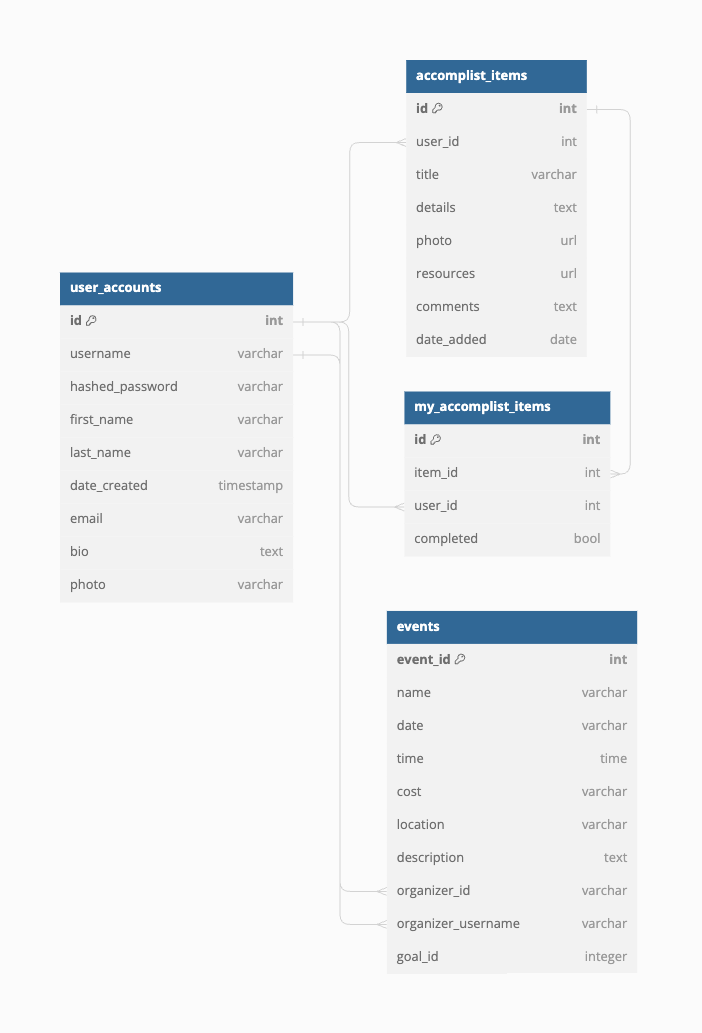
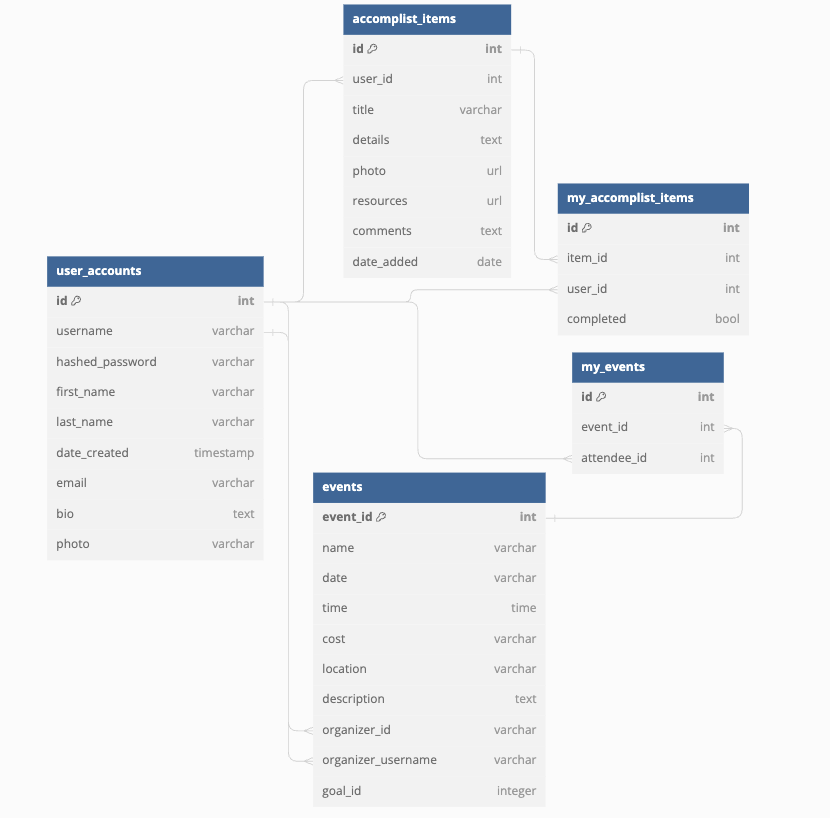
readme my events

diff --git a/ghi/src/Pages/MyEventCreate 2.js b/ghi/src/Pages/MyEventCreate 2.js
@@ -1,0 +1,191 @@
+import React, { useState, useEffect } from "react";
+import useToken from "@galvanize-inc/jwtdown-for-react";
+import { Container, Row, Form, Button, Table } from 'react-bootstrap';
+import { Typeahead } from 'react-bootstrap-typeahead';
+
+export default function MyEventCreate({ user }) {
+
+  const { token, fetchWithToken } = useToken();
+  const [eventObject, setEvent] = useState('');
+  const [events, setEvents] = useState([]);
+  const [my_events, setMyEvents] = useState([]);
+
+  // Call Events Function Upon Token
+  useEffect(() => {
+    if (token && user.id) {
+      async function fetchData() {
+        if (token) {
+          try {
+            const eventUrl = `${process.env.REACT_APP_API_HOST}/events`;
+            const eventData = await fetchWithToken(eventUrl);
+            setEvents(eventData);
+          } catch (error) {
+            console.error("Error fetching data:", error);
+          }
+        } else {
+          console.log("fetch events failed");
+        }
+      }
+
+      fetchData();
+      getMyEvents();
+    } // eslint-disable-next-line
+  }, [token, user.id]);
+
+  // Set My Events
+  const getMyEvents= async () => {
+    if (token) {
+      const myEventUrl = `${process.env.REACT_APP_API_HOST}/api/my_events/account/${user.id}`;
+      const response = await fetchWithToken(myEventUrl);
+      setMyEvents(response);
+    } else {
+      console.log("fetch my events failed");
+    }
+  };
+
+
+
+  const customBackgroundStyle = {
+  backgroundImage: 'url("https://i.imgur.com/afK9tLx.jpg")',
+  backgroundRepeat: 'no-repeat',
+  backgroundSize: 'cover',
+  minHeight: '100vh',
+};
+
+  async function handleSubmit(event) {
+    event.preventDefault();
+    const data = {
+      event_id: eventObject,
+      attendee_id: user.id,
+    };
+    const myEventUrl = `${process.env.REACT_APP_API_HOST}/api/my_events`;
+    const fetchConfig = {
+      method: "post",
+      body: JSON.stringify(data),
+      headers: {
+        'Content-Type': 'application/json',
+      },
+    };
+    const response = await fetch(myEventUrl, fetchConfig);
+    if (response.ok) {
+      setEvent('');
+      getMyEvents();
+      window.location.href = `${process.env.PUBLIC_URL}/my_events/new`;
+    }
+  }
+
+   async function handleDelete(event) {
+    event.preventDefault();
+    const myEvent = my_events.find(my_event => my_event.event_id === parseInt(event.target.value))
+    const myEventId = myEvent.id
+    const myEventUrl = `${process.env.REACT_APP_API_HOST}/api/my_events/${myEventId}`;
+    const fetchConfig = {
+      method: "delete",
+      headers: {
+        'Content-Type': 'application/json',
+      },
+    };
+    const response = await fetch(myEventUrl, fetchConfig);
+    if (response.ok) {
+      getMyEvents();
+      window.location.href = `${process.env.PUBLIC_URL}/my_events/new`;
+    }
+  }
+
+  function handleChangeEvent(eventthing) {
+    setEvent(eventthing[0].event_id)
+  }
+
+
+  if (token && my_events) {
+  const today = new Date();
+  const myEventIds = my_events.map(event => event.event_id);
+  const upcomingEvents = events.filter(event => myEventIds.includes(event.event_id) && new Date(event.date) > today )
+  const pastEvents = events.filter(event => myEventIds.includes(event.event_id) && new Date(event.date) < today )
+  ;
+
+    // Filter the events array to include only events not in my_events
+    const filteredEvents = events.filter(event => !myEventIds.includes(event.event_id));
+
+
+    return (
+    <div style={customBackgroundStyle}>
+        <div style={{ paddingTop: '200px' }}>
+            <Container>
+                <h1 className="whitey-shadow">Save an Event!</h1>
+        <Form onSubmit={handleSubmit}>
+          <Form.Group >
+            <h5 className="whitey-shadow" htmlFor="events">Choose Event</h5>
+            <Typeahead
+              id="events"
+              labelKey="name"
+              options={filteredEvents}
+              onChange={handleChangeEvent}
+              placeholder="Choose Event From Dropdown Below!"
+            />
+          </Form.Group>
+
+          <Button
+            disabled={events.length === 0}
+            type="submit"
+            variant="primary"
+          >
+            Submit
+          </Button>
+        </Form>
+
+        <Container className="mt-5">
+          <h1 className="whitey-shadow">{user.username}'s events!</h1>
+           <h2 className="whitey-shadow">upcoming events!</h2>
+          <Row>
+               <Table striped bordered hover>
+              <thead>
+                <tr>
+                  <th style={{ width: '75%' }}>Event</th>
+                  <th style={{ width: '15%' }}>Date</th>
+                  <th style={{ width: '5%' }}>Actions</th>
+                </tr>
+              </thead>
+              <tbody>{upcomingEvents.map(my_event => (
+                  <tr key={my_event.event_id}>
+                    <td>{my_event.name}</td>
+                    <td>{my_event.date}</td>
+                    <td><Button className="btn btn-sm custom-button" onClick={handleDelete} value={my_event.event_id}>Delete</Button></td>
+                  </tr>
+                     ))}
+                  </tbody>
+            </Table>
+          </Row>
+          <h2 className="whitey-shadow">past events!</h2>
+          <Row>
+            <Table striped bordered hover>
+              <thead>
+                <tr>
+                  <th style={{ width: '75%' }}>Event</th>
+                  <th style={{ width: '15%' }}>Date</th>
+                  <th style={{ width: '5%' }}>Actions</th>
+                </tr>
+              </thead>
+              <tbody>{pastEvents.map(my_event => (
+                  <tr key={my_event.event_id}>
+                    <td>{my_event.name}</td>
+                    <td>{my_event.date}</td>
+                    <td><Button className="btn btn-sm custom-button" onClick={handleDelete} value={my_event.event_id}>Delete</Button></td>
+                  </tr>
+                ))}
+              </tbody>
+            </Table>
+          </Row>
+        </Container>
+
+      </Container>
+      </div>
+      </div>
+
+    );
+  } else {
+    return (
+      <div className="mt-5">You must be logged in to add to your Events</div>
+    );
+  }
+}

diff --git a/api/queries/my_events 2.py b/api/queries/my_events 2.py
@@ -1,0 +1,128 @@
+from pydantic import BaseModel
+from typing import Optional, Union, List
+from queries.pool import pool
+
+
+class Error(BaseModel):
+    message: str
+
+
+class MyEventIn(BaseModel):
+    event_id: int
+    attendee_id: int
+
+
+class MyEventOut(BaseModel):
+    id: int
+    event_id: int
+    attendee_id: int
+
+
+class MyEventRepository:
+    def my_event_in_to_out(self, id: int, my_event: MyEventIn) -> MyEventOut:
+        old_data = my_event.dict()
+        return MyEventOut(
+            id=id,
+            event_id=old_data["event_id"],
+            attendee_id=old_data["attendee_id"],
+        )
+
+    def record_to_my_event_out(self, record) -> MyEventOut:
+        return MyEventOut(
+            id=record[0],
+            event_id=record[1],
+            attendee_id=record[2],
+        )
+
+    def get_my_event(self, my_event_id: int) -> Optional[MyEventOut]:
+        try:
+            # connect the database
+            with pool.connection() as conn:
+                # get a cursor
+                with conn.cursor() as cur:
+                    result = cur.execute(
+                        """
+                        SELECT id,
+                               event_id,
+                               attendee_id
+                        FROM my_events
+                        WHERE id = %s
+                        """,
+                        [my_event_id],
+                    )
+                    record = result.fetchone()
+                    if record is None:
+                        return None
+                    return self.record_to_my_event_out(record)
+        except Exception as e:
+            print(e)
+            return None
+
+    def delete(self, my_event_id: int) -> bool:
+        try:
+            # connect the database
+            with pool.connection() as conn:
+                # get a cursor
+                with conn.cursor() as cur:
+                    result = cur.execute(
+                        """
+                        DELETE FROM my_events
+                        WHERE id = %s
+                        """,
+                        [my_event_id],
+                    )
+                    if result.rowcount == 0:
+                        return False
+                    return True
+        except Exception as e:
+            print(e)
+            return False
+
+    def get_all(self) -> Union[Error, List[MyEventOut]]:
+        try:
+            # connect the database
+            with pool.connection() as conn:
+                # get a cursor
+                with conn.cursor() as cur:
+                    cur.execute(
+                        """
+                        SELECT
+                            id,
+                            event_id,
+                            attendee_id
+                        FROM my_events
+                        ORDER BY id
+                        """
+                    )
+                    return [
+                        self.record_to_my_event_out(record) for record in cur
+                    ]
+        except Exception as e:
+            print(e)
+            return Error(message="could not get all my event items")
+
+    def create(self, my_event: MyEventIn) -> MyEventOut:
+        try:
+            # connect the database
+            with pool.connection() as conn:
+                # get a cursor
+                with conn.cursor() as cur:
+                    # run our INSERT statement
+                    cur.execute(
+                        """
+                        INSERT INTO my_events
+                            (event_id,
+                             attendee_id)
+                        VALUES
+                            (%s, %s)
+                        RETURNING id;
+                        """,
+                        [my_event.event_id, my_event.attendee_id],
+                    )
+
+                    id = cur.fetchone()[0]
+                    # Return new data
+                    return self.my_event_in_to_out(id, my_event)
+        except Exception as e:
+            print(e)
+            return Error(message="could not create my event item")

diff --git a/api/routers/my_events 2.py b/api/routers/my_events 2.py
@@ -1,0 +1,67 @@
+from fastapi import APIRouter, Depends, Response
+from typing import List, Union, Optional
+from queries.authenticator import authenticator
+
+from queries.my_events import (
+    MyEventIn,
+    MyEventOut,
+    MyEventRepository,
+    Error,
+)
+
+router = APIRouter()
+
+
+@router.post("/api/my_events", response_model=MyEventOut)
+def create_my_event(
+    my_event: MyEventIn,
+    repo: MyEventRepository = Depends(),
+) -> MyEventOut:
+    return repo.create(my_event)
+
+
+@router.get("/api/my_events", response_model=List[MyEventOut])
+def get_all_my_events(
+    repo: MyEventRepository = Depends(),
+) -> List[MyEventOut]:
+    return repo.get_all()
+
+
+@router.get(
+    "/api/my_events/account/{user_id}",
+    response_model=Union[List[MyEventOut], Error],
+)
+async def get_events_for_account(
+    user_id: int,
+    repo: MyEventRepository = Depends(),
+    account_data: dict
+    | None = Depends(authenticator.try_get_current_account_data),
+) -> Union[List[MyEventOut], Error]:
+    events = repo.get_all()
+    filtered_events = [
+        event for event in events if event.attendee_id == user_id
+    ]
+    return filtered_events
+
+
+@router.delete("/api/my_events/{my_event_id}", response_model=bool)
+def delete_my_event(
+    my_event_id: int,
+    repo: MyEventRepository = Depends(),
+) -> bool:
+    return repo.delete(my_event_id)
+
+
+@router.get(
+    "/api/my_events/{my_event_id}",
+    response_model=Optional[MyEventOut],
+)
+def get_my_event(
+    my_event_id: int,
+    response: Response,
+    repo: MyEventRepository = Depends(),
+) -> Optional[MyEventOut]:
+    my_event = repo.get_my_event(my_event_id)
+    if my_event is None:
+        response.status_code = 404
+    return my_event
